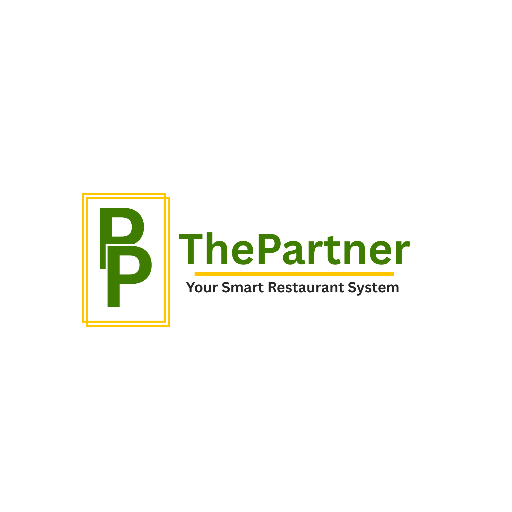
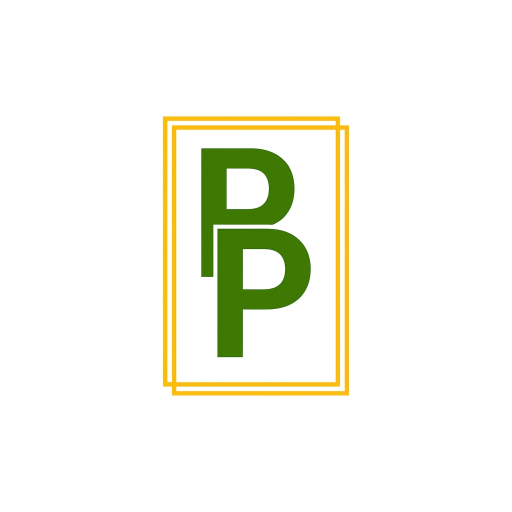
Update Partner -- more fixes

Changed region(s): [[0.1562, 0.2188, 0.8125, 0.7812]]

diff --git a/app/dashboard/layout.tsx b/app/dashboard/layout.tsx
@@ -143,6 +143,8 @@ export default function DashboardLayout({
             ? permissions.can_manage_orders
             : pathname.startsWith('/dashboard/pricing')
               ? permissions.can_manage_pricing
+              : pathname === '/dashboard/settings/printers'
+                ? true
               : pathname.startsWith('/dashboard/settings')
                 ? permissions.can_manage_settings
                 : pathname.startsWith('/dashboard/qr')
@@ -151,34 +153,38 @@ export default function DashboardLayout({
 
   const renderSettingsNavigation = (closeMobile = false) => (
     <div className="mt-1 space-y-1 pl-3">
-      <Link
-        href="/dashboard/settings"
-        onClick={closeMobile ? () => setMobileOpen(false) : undefined}
-        className="flex w-full items-center gap-3 rounded-xl px-3.5 py-2.5 text-xs font-semibold transition hover:opacity-90"
-        style={{
-          color:
-            pathname === '/dashboard/settings'
-              ? theme.portal_accent
-              : theme.portal_text,
-        }}
-      >
-        <UserRound className="h-4 w-4" />
-        <span>Profile</span>
-      </Link>
+      {permissions.can_manage_settings && (
+        <>
+          <Link
+            href="/dashboard/settings"
+            onClick={closeMobile ? () => setMobileOpen(false) : undefined}
+            className="flex w-full items-center gap-3 rounded-xl px-3.5 py-2.5 text-xs font-semibold transition hover:opacity-90"
+            style={{
+              color:
+                pathname === '/dashboard/settings'
+                  ? theme.portal_accent
+                  : theme.portal_text,
+            }}
+          >
+            <UserRound className="h-4 w-4" />
+            <span>Profile</span>
+          </Link>
 
-      <Link
-        href="/dashboard/settings/appearance"
-        onClick={closeMobile ? () => setMobileOpen(false) : undefined}
-        className="flex w-full items-center gap-3 rounded-xl px-3.5 py-2.5 text-xs font-semibold transition hover:opacity-90"
-        style={{
-          color: pathname === '/dashboard/settings/appearance'
-            ? theme.portal_accent
-            : theme.portal_text,
-        }}
-      >
-        <Palette className="h-4 w-4" />
-        <span>Appearance</span>
-      </Link>
+          <Link
+            href="/dashboard/settings/appearance"
+            onClick={closeMobile ? () => setMobileOpen(false) : undefined}
+            className="flex w-full items-center gap-3 rounded-xl px-3.5 py-2.5 text-xs font-semibold transition hover:opacity-90"
+            style={{
+              color: pathname === '/dashboard/settings/appearance'
+                ? theme.portal_accent
+                : theme.portal_text,
+            }}
+          >
+            <Palette className="h-4 w-4" />
+            <span>Appearance</span>
+          </Link>
+        </>
+      )}
 
       <Link
         href="/dashboard/settings/printers"
@@ -850,7 +856,7 @@ export default function DashboardLayout({
               }}
             >
               <img
-                src="/thepartner-icon.png"
+                src="/partnerlogo-icon.png"
                 alt="Partner"
                 className="h-full w-full object-contain"
               />
@@ -1006,7 +1012,7 @@ export default function DashboardLayout({
 
           {/* SETTINGS */}
 
-          {permissions.can_manage_settings && (
+          {(permissions.can_manage_settings || restaurant) && (
             <div>
               <button
                 type="button"
@@ -1247,7 +1253,7 @@ export default function DashboardLayout({
             </div>
 
 
-            {permissions.can_manage_settings && (
+            {(permissions.can_manage_settings || restaurant) && (
               <div>
                 <button
                   type="button"

diff --git a/app/menu/[slug]/page.tsx b/app/menu/[slug]/page.tsx
@@ -1551,7 +1551,7 @@ export default function PublicMenuPage() {
             />
 
             <img
-              src="/thepartner-icon.png"
+              src="/partnerlogo-icon.png"
               alt="NOVAMENU"
               className="relative h-12 w-12 rounded-full object-cover"
             />
@@ -2083,7 +2083,7 @@ export default function PublicMenuPage() {
                 }}
               >
                 <img
-                  src="/thepartner-icon.png"
+                  src="/partnerlogo-icon.png"
                   alt="Partner"
                   className="h-full w-full object-cover"
                 />
@@ -5020,7 +5020,7 @@ export default function PublicMenuPage() {
                       }}
                     >
                       <img
-                        src="/thepartner-icon.png"
+                        src="/partnerlogo-icon.png"
                         alt="Partner"
                         className="h-full w-full object-cover"
                       />

diff --git a/app/login/page.tsx b/app/login/page.tsx
@@ -268,7 +268,7 @@ export default function LoginPage() {
           >
 
             <img
-              src="/thepartner-icon.png"
+              src="/partnerlogo-icon.png"
               alt="Partner"
               className="h-full w-full object-contain"
             />
@@ -846,7 +846,7 @@ export default function LoginPage() {
                       "
                     >
                       <img
-                        src="/thepartner-icon.png"
+                        src="/partnerlogo-icon.png"
                         alt="Partner"
                         className="h-full w-full object-contain"
                       />
@@ -1306,7 +1306,7 @@ export default function LoginPage() {
                   "
                 >
                   <img
-                    src="/thepartner-icon.png"
+                    src="/partnerlogo-icon.png"
                             alt="Partner"
                     className="h-full w-full object-contain"
                   />

diff --git a/app/signup/page.tsx b/app/signup/page.tsx
@@ -294,7 +294,7 @@ export default function SignUpPage() {
           >
 
             <img
-              src="/thepartner-icon.png"
+              src="/partnerlogo-icon.png"
               alt="Partner"
               className="h-full w-full object-contain"
             />
@@ -699,7 +699,7 @@ export default function SignUpPage() {
                       "
                     >
                       <img
-                        src="/thepartner-icon.png"
+                        src="/partnerlogo-icon.png"
                         alt="Partner"
                         className="h-full w-full object-cover"
                       />
@@ -1301,7 +1301,7 @@ export default function SignUpPage() {
                   "
                 >
                   <img
-                    src="/thepartner-icon.png"
+                    src="/partnerlogo-icon.png"
                     alt="NOVAMENU"
                     className="h-full w-full object-cover"
                   />

diff --git a/app/page.tsx b/app/page.tsx
@@ -47,7 +47,7 @@ export default function Home() {
               }}
             >
               <img
-                src="/thepartner-icon.png"
+                src="/partnerlogo-icon.png"
                 alt="Partner"
                 className="h-full w-full object-cover"
               />
@@ -502,7 +502,7 @@ export default function Home() {
           <div className="flex items-center gap-3">
             <div className="flex h-7 w-7 items-center justify-center overflow-hidden rounded-full">
               <img
-                src="/thepartner-icon.png"
+                src="/partnerlogo-icon.png"
                 alt="NOVAMENU"
                 className="h-full w-full object-cover"
               />

diff --git a/app/reset-password/page.tsx b/app/reset-password/page.tsx
@@ -265,7 +265,7 @@ export default function ResetPasswordPage() {
             "
           >
             <img
-              src="/thepartner-icon.png"
+              src="/partnerlogo-icon.png"
               alt="Partner"
               className="h-full w-full object-contain"
             />
@@ -426,7 +426,7 @@ export default function ResetPasswordPage() {
                 >
 
                   <img
-                    src="/thepartner-icon.png"
+                    src="/partnerlogo-icon.png"
                     alt="Partner"
                     className="h-full w-full object-contain"
                   />

diff --git a/app/forgot-password/page.tsx b/app/forgot-password/page.tsx
@@ -204,7 +204,7 @@ export default function ForgotPasswordPage() {
           >
 
             <img
-              src="/thepartner-icon.png"
+              src="/partnerlogo-icon.png"
               alt="Partner"
               className="h-full w-full object-contain"
             />
@@ -366,7 +366,7 @@ export default function ForgotPasswordPage() {
                 >
 
                   <img
-                    src="/thepartner-icon.png"
+                    src="/partnerlogo-icon.png"
                     alt="Partner"
                     className="h-full w-full object-contain"
                   />

diff --git a/app/dashboard/menu/page.tsx b/app/dashboard/menu/page.tsx
@@ -2787,7 +2787,7 @@ export default function MenuManagementPage() {
 
             <div className="w-5 h-5 overflow-hidden rounded-md">
               <img
-                src="/thepartner-icon.png"
+                src="/partnerlogo-icon.png"
                 alt="Partner"
                 className="h-full w-full object-cover"
               />

diff --git a/app/layout.tsx b/app/layout.tsx
@@ -14,7 +14,7 @@ const geistMono = Geist_Mono({
 
 export const metadata: Metadata = {
   icons: {
-    icon: "/thepartner-icon.png",
+    icon: "/partnerlogo-icon.png",
   },
   title: {
     default: "Partner",
